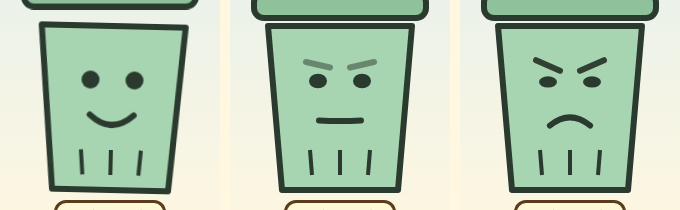
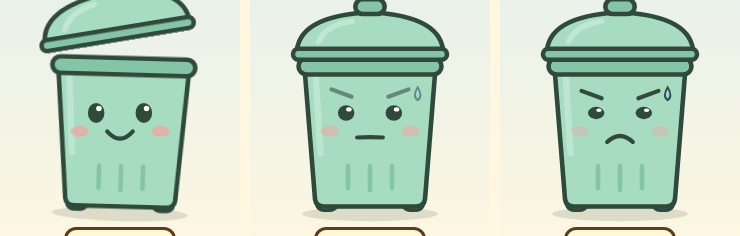
接入新垃圾桶美术（assets/can/）：内联 SVG 按状态切换，修复喷纸变换原点，表情 JS 插值过渡；更新测试与截图

diff --git a/index.html b/index.html
@@ -18,26 +18,34 @@
 <button id="btn-add" title="新建对话框（快捷键 N 或 Ctrl+Alt+N）">+</button>
 <div id="trash-wrap">
   <div id="trash" title="把对话框拖进来；双击或狂点有惊喜">
-    <svg viewBox="0 0 200 230" width="100%" height="100%" aria-hidden="true" overflow="visible">
-      <g id="trash-peek"></g>
-      <g id="trash-lid">
-        <rect x="70" y="8" width="60" height="16" rx="6" fill="#6b8f71" stroke="#2b3a2e" stroke-width="5"/>
-        <rect x="14" y="22" width="172" height="26" rx="10" fill="#8fc19a" stroke="#2b3a2e" stroke-width="6"/>
-      </g>
-      <g id="trash-body">
-        <path d="M28 56 H172 L158 220 H42 Z" fill="#a8d5b1" stroke="#2b3a2e" stroke-width="6" stroke-linejoin="round"/>
-        <g id="trash-face">
-          <ellipse id="eye-l" cx="78" cy="110" rx="9" ry="9" fill="#2b3a2e"/><ellipse id="eye-r" cx="122" cy="110" rx="9" ry="9" fill="#2b3a2e"/>
-          <path id="brow-l" d="M66 94 L90 94" stroke="#2b3a2e" stroke-width="6" stroke-linecap="round" opacity="0"/>
-          <path id="brow-r" d="M134 94 L110 94" stroke="#2b3a2e" stroke-width="6" stroke-linecap="round" opacity="0"/>
-          <path id="trash-mouth" d="M78 145 Q100 165 122 145" fill="none" stroke="#2b3a2e" stroke-width="6" stroke-linecap="round"/>
-        </g>
-        <line x1="70" y1="180" x2="72" y2="205" stroke="#2b3a2e" stroke-width="4"/>
-        <line x1="100" y1="180" x2="100" y2="205" stroke="#2b3a2e" stroke-width="4"/>
-        <line x1="130" y1="180" x2="128" y2="205" stroke="#2b3a2e" stroke-width="4"/>
-      </g>
-      <g id="trash-burst"></g>
-    </svg>
+    <svg viewBox="0 0 240 280" width="100%" height="100%" aria-hidden="true" overflow="visible">
+<!-- 美术：assets/can/。四个状态合成一个内联 SVG，由 #trash[data-state] 切换 -->
+<g class="can"><g id="body"><ellipse cx="120" cy="266" rx="74" ry="8" fill="#2f4a3c" opacity=".15"/>
+ <rect x="62" y="248" width="22" height="14" rx="7" fill="#86c4a6" stroke="#2f4a3c" stroke-width="4"/><rect x="156" y="248" width="22" height="14" rx="7" fill="#86c4a6" stroke="#2f4a3c" stroke-width="4"/>
+ <path d="M48 100 H192 L180 250 Q179 258 170 258 H70 Q61 258 60 250 Z" fill="#a8dcc0" stroke="#2f4a3c" stroke-width="5" stroke-linejoin="round"/>
+ <path d="M60 104 L66 200" stroke="#bfe8d2" stroke-width="7" stroke-linecap="round" opacity=".9"/>
+ <rect x="42" y="96" width="156" height="18" rx="9" fill="#86c4a6" stroke="#2f4a3c" stroke-width="5"/>
+ <path d="M96 214 v24 M120 214 v26 M144 214 v24" stroke="#86c4a6" stroke-width="5" stroke-linecap="round"/></g>
+<g id="peek"><g class="paper " style="--i:0" transform="translate(150 86)"><path d="M-12 -3.5999999999999996 L-6.0 -12 L3.5999999999999996 -10.2 L12 -2.4000000000000004 L8.399999999999999 9.600000000000001 L-4.800000000000001 12 Z" fill="#f5efdc" stroke="#8a7a5c" stroke-width="2.5" stroke-linejoin="round"/><path d="M-6.0 -2.4000000000000004 L0 1.2000000000000002 L6.0 -4.800000000000001 M0 1.2000000000000002 L-1.2000000000000002 7.199999999999999" stroke="#b5a481" stroke-width="1.8" fill="none" stroke-linecap="round"/></g><g class="paper " style="--i:0" transform="translate(172 80)"><path d="M-11 -3.3 L-5.5 -11 L3.3 -9.35 L11 -2.2 L7.699999999999999 8.8 L-4.4 11 Z" fill="#f5efdc" stroke="#8a7a5c" stroke-width="2.5" stroke-linejoin="round"/><path d="M-5.5 -2.2 L0 1.1 L5.5 -4.4 M0 1.1 L-1.1 6.6" stroke="#b5a481" stroke-width="1.8" fill="none" stroke-linecap="round"/></g><g class="paper " style="--i:0" transform="translate(186 92)"><path d="M-9 -2.6999999999999997 L-4.5 -9 L2.6999999999999997 -7.6499999999999995 L9 -1.8 L6.3 7.2 L-3.6 9 Z" fill="#f5efdc" stroke="#8a7a5c" stroke-width="2.5" stroke-linejoin="round"/><path d="M-4.5 -1.8 L0 0.9 L4.5 -3.6 M0 0.9 L-0.9 5.3999999999999995" stroke="#b5a481" stroke-width="1.8" fill="none" stroke-linecap="round"/></g><g class="paper " style="--i:0" transform="translate(130 92)"><path d="M-9 -2.6999999999999997 L-4.5 -9 L2.6999999999999997 -7.6499999999999995 L9 -1.8 L6.3 7.2 L-3.6 9 Z" fill="#f5efdc" stroke="#8a7a5c" stroke-width="2.5" stroke-linejoin="round"/><path d="M-4.5 -1.8 L0 0.9 L4.5 -3.6 M0 0.9 L-0.9 5.3999999999999995" stroke="#b5a481" stroke-width="1.8" fill="none" stroke-linecap="round"/></g><g class="paper " style="--i:0" transform="translate(196 104)"><path d="M-8 -2.4 L-4.0 -8 L2.4 -6.8 L8 -1.6 L5.6 6.4 L-3.2 8 Z" fill="#f5efdc" stroke="#8a7a5c" stroke-width="2.5" stroke-linejoin="round"/><path d="M-4.0 -1.6 L0 0.8 L4.0 -3.2 M0 0.8 L-0.8 4.8" stroke="#b5a481" stroke-width="1.8" fill="none" stroke-linecap="round"/></g></g>
+<g id="overflow"><g class="paper " style="--i:0" transform="translate(80 90)"><path d="M-13 -3.9 L-6.5 -13 L3.9 -11.049999999999999 L13 -2.6 L9.1 10.4 L-5.2 13 Z" fill="#f5efdc" stroke="#8a7a5c" stroke-width="2.5" stroke-linejoin="round"/><path d="M-6.5 -2.6 L0 1.3 L6.5 -5.2 M0 1.3 L-1.3 7.8" stroke="#b5a481" stroke-width="1.8" fill="none" stroke-linecap="round"/></g><g class="paper " style="--i:0" transform="translate(110 82)"><path d="M-14 -4.2 L-7.0 -14 L4.2 -11.9 L14 -2.8000000000000003 L9.799999999999999 11.200000000000001 L-5.6000000000000005 14 Z" fill="#f5efdc" stroke="#8a7a5c" stroke-width="2.5" stroke-linejoin="round"/><path d="M-7.0 -2.8000000000000003 L0 1.4000000000000001 L7.0 -5.6000000000000005 M0 1.4000000000000001 L-1.4000000000000001 8.4" stroke="#b5a481" stroke-width="1.8" fill="none" stroke-linecap="round"/></g><g class="paper " style="--i:0" transform="translate(140 80)"><path d="M-13 -3.9 L-6.5 -13 L3.9 -11.049999999999999 L13 -2.6 L9.1 10.4 L-5.2 13 Z" fill="#f5efdc" stroke="#8a7a5c" stroke-width="2.5" stroke-linejoin="round"/><path d="M-6.5 -2.6 L0 1.3 L6.5 -5.2 M0 1.3 L-1.3 7.8" stroke="#b5a481" stroke-width="1.8" fill="none" stroke-linecap="round"/></g><g class="paper " style="--i:0" transform="translate(168 86)"><path d="M-12 -3.5999999999999996 L-6.0 -12 L3.5999999999999996 -10.2 L12 -2.4000000000000004 L8.399999999999999 9.600000000000001 L-4.800000000000001 12 Z" fill="#f5efdc" stroke="#8a7a5c" stroke-width="2.5" stroke-linejoin="round"/><path d="M-6.0 -2.4000000000000004 L0 1.2000000000000002 L6.0 -4.800000000000001 M0 1.2000000000000002 L-1.2000000000000002 7.199999999999999" stroke="#b5a481" stroke-width="1.8" fill="none" stroke-linecap="round"/></g><g class="paper " style="--i:0" transform="translate(60 98)"><path d="M-9 -2.6999999999999997 L-4.5 -9 L2.6999999999999997 -7.6499999999999995 L9 -1.8 L6.3 7.2 L-3.6 9 Z" fill="#f5efdc" stroke="#8a7a5c" stroke-width="2.5" stroke-linejoin="round"/><path d="M-4.5 -1.8 L0 0.9 L4.5 -3.6 M0 0.9 L-0.9 5.3999999999999995" stroke="#b5a481" stroke-width="1.8" fill="none" stroke-linecap="round"/></g><g class="paper " style="--i:0" transform="translate(186 98)"><path d="M-10 -3.0 L-5.0 -10 L3.0 -8.5 L10 -2.0 L7.0 8.0 L-4.0 10 Z" fill="#f5efdc" stroke="#8a7a5c" stroke-width="2.5" stroke-linejoin="round"/><path d="M-5.0 -2.0 L0 1.0 L5.0 -4.0 M0 1.0 L-1.0 6.0" stroke="#b5a481" stroke-width="1.8" fill="none" stroke-linecap="round"/></g><g class="paper " style="--i:0" transform="translate(124 70)"><path d="M-10 -3.0 L-5.0 -10 L3.0 -8.5 L10 -2.0 L7.0 8.0 L-4.0 10 Z" fill="#f5efdc" stroke="#8a7a5c" stroke-width="2.5" stroke-linejoin="round"/><path d="M-5.0 -2.0 L0 1.0 L5.0 -4.0 M0 1.0 L-1.0 6.0" stroke="#b5a481" stroke-width="1.8" fill="none" stroke-linecap="round"/></g></g>
+<g class="spray"><g class="paper " style="--i:0;--dx:-99px;--dy:-48px;--r:42deg" transform="translate(113 92)"><path d="M-12 -3.5999999999999996 L-6.0 -12 L3.5999999999999996 -10.2 L12 -2.4000000000000004 L8.399999999999999 9.600000000000001 L-4.800000000000001 12 Z" fill="#f5efdc" stroke="#8a7a5c" stroke-width="2.5" stroke-linejoin="round"/><path d="M-6.0 -2.4000000000000004 L0 1.2000000000000002 L6.0 -4.800000000000001 M0 1.2000000000000002 L-1.2000000000000002 7.199999999999999" stroke="#b5a481" stroke-width="1.8" fill="none" stroke-linecap="round"/></g><g class="paper " style="--i:1;--dx:-31px;--dy:-70px;--r:-81deg" transform="translate(106 92)"><path d="M-12 -3.5999999999999996 L-6.0 -12 L3.5999999999999996 -10.2 L12 -2.4000000000000004 L8.399999999999999 9.600000000000001 L-4.800000000000001 12 Z" fill="#f5efdc" stroke="#8a7a5c" stroke-width="2.5" stroke-linejoin="round"/><path d="M-6.0 -2.4000000000000004 L0 1.2000000000000002 L6.0 -4.800000000000001 M0 1.2000000000000002 L-1.2000000000000002 7.199999999999999" stroke="#b5a481" stroke-width="1.8" fill="none" stroke-linecap="round"/></g><g class="paper " style="--i:2;--dx:-90px;--dy:-74px;--r:43deg" transform="translate(143 92)"><path d="M-12 -3.5999999999999996 L-6.0 -12 L3.5999999999999996 -10.2 L12 -2.4000000000000004 L8.399999999999999 9.600000000000001 L-4.800000000000001 12 Z" fill="#f5efdc" stroke="#8a7a5c" stroke-width="2.5" stroke-linejoin="round"/><path d="M-6.0 -2.4000000000000004 L0 1.2000000000000002 L6.0 -4.800000000000001 M0 1.2000000000000002 L-1.2000000000000002 7.199999999999999" stroke="#b5a481" stroke-width="1.8" fill="none" stroke-linecap="round"/></g><g class="paper " style="--i:3;--dx:49px;--dy:-54px;--r:67deg" transform="translate(130 92)"><path d="M-9 -2.6999999999999997 L-4.5 -9 L2.6999999999999997 -7.6499999999999995 L9 -1.8 L6.3 7.2 L-3.6 9 Z" fill="#f5efdc" stroke="#8a7a5c" stroke-width="2.5" stroke-linejoin="round"/><path d="M-4.5 -1.8 L0 0.9 L4.5 -3.6 M0 0.9 L-0.9 5.3999999999999995" stroke="#b5a481" stroke-width="1.8" fill="none" stroke-linecap="round"/></g><g class="paper " style="--i:4;--dx:31px;--dy:-44px;--r:-179deg" transform="translate(100 92)"><path d="M-12 -3.5999999999999996 L-6.0 -12 L3.5999999999999996 -10.2 L12 -2.4000000000000004 L8.399999999999999 9.600000000000001 L-4.800000000000001 12 Z" fill="#f5efdc" stroke="#8a7a5c" stroke-width="2.5" stroke-linejoin="round"/><path d="M-6.0 -2.4000000000000004 L0 1.2000000000000002 L6.0 -4.800000000000001 M0 1.2000000000000002 L-1.2000000000000002 7.199999999999999" stroke="#b5a481" stroke-width="1.8" fill="none" stroke-linecap="round"/></g><g class="paper " style="--i:5;--dx:33px;--dy:-57px;--r:168deg" transform="translate(120 92)"><path d="M-12 -3.5999999999999996 L-6.0 -12 L3.5999999999999996 -10.2 L12 -2.4000000000000004 L8.399999999999999 9.600000000000001 L-4.800000000000001 12 Z" fill="#f5efdc" stroke="#8a7a5c" stroke-width="2.5" stroke-linejoin="round"/><path d="M-6.0 -2.4000000000000004 L0 1.2000000000000002 L6.0 -4.800000000000001 M0 1.2000000000000002 L-1.2000000000000002 7.199999999999999" stroke="#b5a481" stroke-width="1.8" fill="none" stroke-linecap="round"/></g><g class="paper " style="--i:6;--dx:84px;--dy:-65px;--r:27deg" transform="translate(136 92)"><path d="M-12 -3.5999999999999996 L-6.0 -12 L3.5999999999999996 -10.2 L12 -2.4000000000000004 L8.399999999999999 9.600000000000001 L-4.800000000000001 12 Z" fill="#f5efdc" stroke="#8a7a5c" stroke-width="2.5" stroke-linejoin="round"/><path d="M-6.0 -2.4000000000000004 L0 1.2000000000000002 L6.0 -4.800000000000001 M0 1.2000000000000002 L-1.2000000000000002 7.199999999999999" stroke="#b5a481" stroke-width="1.8" fill="none" stroke-linecap="round"/></g><g class="paper " style="--i:7;--dx:-76px;--dy:-46px;--r:53deg" transform="translate(92 92)"><path d="M-9 -2.6999999999999997 L-4.5 -9 L2.6999999999999997 -7.6499999999999995 L9 -1.8 L6.3 7.2 L-3.6 9 Z" fill="#f5efdc" stroke="#8a7a5c" stroke-width="2.5" stroke-linejoin="round"/><path d="M-4.5 -1.8 L0 0.9 L4.5 -3.6 M0 0.9 L-0.9 5.3999999999999995" stroke="#b5a481" stroke-width="1.8" fill="none" stroke-linecap="round"/></g></g>
+<g class="lid-fight"><g id="lid" class="lid"><path d="M40 92 Q40 50 120 46 Q200 50 200 92 Z" fill="#a8dcc0" stroke="#2f4a3c" stroke-width="5" stroke-linejoin="round"/>
+ <path d="M64 78 Q72 60 100 56" stroke="#bfe8d2" stroke-width="6" fill="none" stroke-linecap="round"/>
+ <rect x="104" y="32" width="32" height="16" rx="8" fill="#86c4a6" stroke="#2f4a3c" stroke-width="5"/>
+ <rect x="36" y="86" width="168" height="12" rx="6" fill="#86c4a6" stroke="#2f4a3c" stroke-width="5"/></g></g>
+<g id="face" class="face">
+ <g id="brows" style="opacity:0">
+  <path id="brow-l" d="M78 132 L100 140" stroke="#2f4a3c" stroke-width="4.5" stroke-linecap="round"/>
+  <path id="brow-r" d="M162 132 L140 140" stroke="#2f4a3c" stroke-width="4.5" stroke-linecap="round"/></g>
+ <g id="eye-l" class="eye" style="transform-origin:94px 156px"><g><ellipse cx="94" cy="156" rx="9" ry="11" fill="#2f4a3c"/><circle cx="97" cy="151" r="3" fill="#fff"/></g></g>
+ <g id="eye-r" class="eye" style="transform-origin:146px 156px"><g><ellipse cx="146" cy="156" rx="9" ry="11" fill="#2f4a3c"/><circle cx="149" cy="151" r="3" fill="#fff"/></g></g>
+ <ellipse id="cheek-l" cx="76" cy="176" rx="10" ry="6" fill="#f4a3a3" opacity="0.7"/>
+ <ellipse id="cheek-r" cx="164" cy="176" rx="10" ry="6" fill="#f4a3a3" opacity="0.7"/>
+ <path id="mouth-smile" d="M106 176 Q120 192 134 176" stroke="#2f4a3c" stroke-width="4.5" fill="none" stroke-linecap="round" style="opacity:1"/>
+ <path id="mouth-frown" d="M106 188 Q120 174 134 188" stroke="#2f4a3c" stroke-width="4.5" fill="none" stroke-linecap="round" style="opacity:0"/>
+ <path id="sweat" d="M172 128 q6 10 0 14 q-6 -4 0 -14Z" fill="#9fd3f0" stroke="#2f4a3c" stroke-width="2" style="opacity:0"/>
+</g></g>
+</svg>
   </div>
   <div id="counter">已吃掉 <b id="count">0</b> 条</div>
 </div>

diff --git a/css/style.css b/css/style.css
@@ -18,14 +18,7 @@ button:active{transform:translateY(2px);box-shadow:0 1px 0 #5a3e1b}
 .bubble textarea{width:100%;min-height:60px;border:none;outline:none;resize:none;font:inherit;background:transparent}
 @keyframes bob{0%,100%{translate:0 0}50%{translate:0 -6px}}
 #trash-wrap{position:fixed;bottom:0;left:50%;transform:translateX(-50%);display:flex;flex-direction:column;align-items:center;z-index:10}
-#trash{width:min(200px,28vw);height:min(230px,32vw);cursor:pointer;user-select:none}
-#trash.hover #trash-lid{transform:translateY(-14px) rotate(-8deg)}
-#trash-lid{transition:transform .2s;transform-origin:30px 30px}
-#trash.chew #trash-lid{animation:chew .18s ease-in-out 5}
-#trash.chew #trash-body{animation:wobble .9s}
-@keyframes chew{50%{transform:translateY(-16px)}}
-@keyframes wobble{25%{transform:rotate(-3deg)}75%{transform:rotate(3deg)}}
-#trash-body{transform-origin:100px 220px}
+#trash{width:min(220px,30vw);aspect-ratio:240/280;cursor:pointer;user-select:none}
 #counter{background:#fff8d6;border:3px solid #5a3e1b;border-radius:12px;padding:2px 12px;margin-bottom:8px;font-weight:bold;color:#5a3e1b}
 .scrap{position:fixed;width:180px;background:#fffdf3;border:2px solid #b49a6a;border-radius:4px;padding:6px 8px;font-size:13px;z-index:40;box-shadow:2px 3px 6px rgba(0,0,0,.2);transition:transform 1s cubic-bezier(.2,.8,.3,1),opacity .6s;pointer-events:auto}
 .scrap time{display:block;color:#c0392b;font-weight:bold;font-size:12px}
@@ -54,12 +47,7 @@ pre.result{white-space:pre-wrap;background:#fff;border:2px solid #ddd;padding:8p
 #tag-filter{font:inherit;padding:4px;border:2px solid #5a3e1b;border-radius:8px}
 
 #trash-wrap{position:fixed}
-#trash.burp #trash-body{animation:burp 1.1s ease-out}
-#trash.burp #trash-lid{animation:lidpop 1.1s ease-out}
-@keyframes burp{15%{transform:scale(1.08,.92)}35%{transform:scale(.94,1.08)}55%{transform:scale(1.03,.97)}}
-@keyframes lidpop{20%{transform:translateY(-28px) rotate(-12deg)}50%{transform:translateY(-4px)}}
 .burp-bubble{position:absolute;top:-10px;left:62%;background:#fff;border:3px solid #3b2a14;border-radius:50%;padding:6px 12px;font-weight:bold;animation:burpup 1.6s ease-out forwards}
-@keyframes burpup{from{transform:translateY(20px) scale(.3);opacity:0}30%{opacity:1;transform:translateY(0) scale(1.1)}to{transform:translateY(-60px) scale(1);opacity:0}}
 
 #review{position:fixed;inset:0;background:rgba(0,0,0,.45);z-index:70;display:flex;align-items:center;justify-content:center}
 .review-box{display:flex;flex-direction:column;align-items:center;gap:8px}
@@ -70,18 +58,42 @@ pre.result{white-space:pre-wrap;background:#fff;border:2px solid #ddd;padding:8p
 .note-item .acts button{font-size:12px;padding:2px 6px}
 #panel{top:100px;height:calc(100% - 100px);border-top:4px solid #5a3e1b;border-top-left-radius:16px}
 
-/* ---- 垃圾桶状态（fill.js） ---- */
-#trash svg{overflow:visible}
-#trash-lid{transform-box:view-box;transform-origin:18px 36px}
-#trash[data-state=ajar] #trash-lid{transform:translateY(-6px) rotate(-9deg)}
-#trash[data-state=ajar]:not(.chew):not(.burp) #trash-lid{animation:ajar 2.4s ease-in-out infinite}
-@keyframes ajar{0%,100%{transform:translateY(-6px) rotate(-9deg)}50%{transform:translateY(-8px) rotate(-11deg)}}
-#trash .peek>g{transform-box:fill-box;transform-origin:center;animation:peek 1.6s ease-in-out infinite}
-@keyframes peek{0%,100%{transform:translate(0,0) scale(1)}50%{transform:translate(2px,-3px) scale(1.08,.92)}}
-#trash[data-state=struggle]:not(.chew):not(.burp) #trash-lid{animation:struggle 1.2s ease-in-out infinite}
-@keyframes struggle{0%{transform:translateY(-4px) rotate(-4deg)}20%{transform:translateY(0) rotate(-1deg)}28%{transform:translateY(-2px) rotate(-2deg)}
- 45%{transform:translateY(-26px) rotate(-20deg)}52%{transform:translateY(-22px) rotate(-17deg)}58%{transform:translateY(-25px) rotate(-21deg)}100%{transform:translateY(-4px) rotate(-4deg)}}
-#trash[data-state=struggle] #trash-body{animation:shake .3s linear infinite}
-@keyframes shake{25%{transform:translateX(-2px) rotate(-1deg)}75%{transform:translateX(2px) rotate(1deg)}}
-#trash .fly>g{transform-box:fill-box;transform-origin:center;animation:fly 1.4s ease-out infinite}
-@keyframes fly{0%{transform:translate(0,0) scale(.5);opacity:0}12%{opacity:1}85%{opacity:1}100%{transform:translate(var(--dx),var(--dy)) rotate(200deg) scale(1);opacity:0}}
+
+/* ---- 垃圾桶（美术见 assets/can/，状态由 fill.js 设置 data-state，表情由 face.js 插值） ---- */
+#trash svg{overflow:visible;display:block}
+#trash #lid,#trash .lid-fight{transform-box:view-box;transform-origin:40px 92px}
+#trash .can{transform-box:view-box;transform-origin:120px 260px}
+#trash #body{transform-box:view-box;transform-origin:120px 258px}
+#trash #lid{transition:transform .25s}
+#trash.hover #lid{transform:rotate(-14deg) translateY(-6px)}
+#trash.chew #lid{animation:chew .18s ease-in-out 5}
+#trash.chew #body{animation:wobble .9s}
+@keyframes chew{50%{transform:rotate(-10deg) translateY(-10px)}}
+@keyframes wobble{25%{transform:rotate(-3deg)}75%{transform:rotate(3deg)}}
+#trash.burp #body{animation:burp 1.1s ease-out}
+#trash.burp #lid{animation:lidpop 1.1s ease-out}
+@keyframes burp{15%{transform:scale(1.08,.92)}35%{transform:scale(.94,1.08)}55%{transform:scale(1.03,.97)}}
+@keyframes lidpop{20%{transform:rotate(-30deg) translateY(-14px)}50%{transform:rotate(-6deg)}}
+/* 纸团：默认全部隐藏，按状态显示 */
+#trash #peek,#trash #overflow,#trash .spray{display:none}
+#trash .paper{transform-box:fill-box;transform-origin:center}
+/* 20：盖子合不上（同 can-3：rotate(-16) translate(0,-4)），纸团从盖沿挤出、轻轻扭动 */
+#trash[data-state=ajar] #peek{display:inline}
+#trash[data-state=ajar] #lid{transform:rotate(-16deg) translateY(-4px)}
+#trash[data-state=ajar]:not(.chew):not(.burp):not(.hover) #lid{animation:ajar 2.4s ease-in-out infinite}
+@keyframes ajar{0%,100%{transform:rotate(-16deg) translateY(-4px)}50%{transform:rotate(-19deg) translateY(-6px)}}
+#trash[data-state=ajar] #peek .paper{animation:peek 1.6s ease-in-out infinite}
+#trash[data-state=ajar] #peek .paper:nth-child(2n){animation-delay:-.6s}
+#trash[data-state=ajar] #peek .paper:nth-child(3n){animation-delay:-1.1s}
+@keyframes peek{0%,100%{scale:1;rotate:0deg}50%{scale:1.08 .94;rotate:6deg}}
+/* 100：同 can-4，纸团狂喷 + 盖子拉锯 + 整桶抖 */
+#trash[data-state=struggle] #overflow,#trash[data-state=struggle] .spray{display:inline}
+#trash[data-state=struggle] #lid{transform:rotate(-10deg) translateY(-6px)}
+#trash[data-state=struggle] .can{animation:shake .18s linear infinite}
+@keyframes shake{0%,100%{transform:translate(0,0) rotate(0)}25%{transform:translate(-3px,1px) rotate(-2deg)}75%{transform:translate(3px,-1px) rotate(2deg)}}
+#trash[data-state=struggle] .lid-fight{animation:lidfight .9s ease-in-out infinite}
+@keyframes lidfight{0%{transform:rotate(-24deg) translateY(-8px)}40%{transform:rotate(-3deg) translateY(0)}55%{transform:rotate(-1deg) translateY(1px)}70%{transform:rotate(-30deg) translateY(-12px)}100%{transform:rotate(-24deg) translateY(-8px)}}
+#trash[data-state=struggle] .spray .paper{animation:spray 1.2s cubic-bezier(.2,.7,.4,1) infinite;animation-delay:calc(var(--i) * -0.15s);opacity:0}
+@keyframes spray{0%{translate:0 0;opacity:0;scale:.6}10%{opacity:1}100%{translate:var(--dx) var(--dy);opacity:0;scale:1.1;rotate:var(--r)}}
+#trash[data-state=struggle] #overflow .paper{animation:peek 1s ease-in-out infinite}
+@media (prefers-reduced-motion:reduce){#trash .can,#trash .lid-fight,#trash .paper,#trash #lid{animation:none!important}#trash .spray .paper{opacity:1}}

diff --git a/js/face.js b/js/face.js
@@ -1,33 +1,31 @@
-// 垃圾桶表情：在笑脸(0)和不开心(1)之间平滑过渡（JS 插值 SVG 路径）
-const SMILE = [78, 145, 100, 165, 122, 145], FROWN = [80, 156, 100 , 138, 120, 156];
-const DURATION = 1000;              // 过渡时长（毫秒）
-export const CHEW_MS = 950;         // 等咀嚼动画结束再变脸
+// 垃圾桶表情：笑脸(0) ⇄ 苦脸(1) 平滑过渡。用 JS 插值直接写内联样式，
+// 所以不依赖 !important 去覆盖美术文件里的内联 opacity，两个方向都一样顺。
+const DURATION = 1000;      // 过渡时长（毫秒）
+export const CHEW_MS = 950; // 等咀嚼动画结束再变脸
+const SMILE = [106, 176, 120, 192, 134, 176], FROWN = [106, 188, 120, 174, 134, 188];
 let cur = 0, target = 0, raf, timer;
 const ease = t => t < .5 ? 2 * t * t : 1 - (-2 * t + 2) ** 2 / 2;
 const lerp = (a, b, t) => a + (b - a) * t;
+const $ = id => document.getElementById(id);
 function paint(t) {
   const m = SMILE.map((v, i) => lerp(v, FROWN[i], t).toFixed(1));
-  const $ = id => document.getElementById(id);
-  $('trash-mouth').setAttribute('d', `M${m[0]} ${m[1]} Q${m[2]} ${m[3]} ${m[4]} ${m[5]}`);
-  // 眉毛：淡入并从水平转成倒八字
-  $('brow-l').setAttribute('d', `M66 ${lerp(94, 90, t)} L90 ${lerp(94, 101, t)}`);
-  $('brow-r').setAttribute('d', `M134 ${lerp(94, 90, t)} L110 ${lerp(94, 101, t)}`);
-  $('brow-l').setAttribute('opacity', t); $('brow-r').setAttribute('opacity', t);
-  // 眼睛眯起来
-  for (const e of ['eye-l', 'eye-r']) { $(e).setAttribute('ry', lerp(9, 5.5, t).toFixed(2)); $(e).setAttribute('cy', lerp(110, 112, t).toFixed(1)); }
-  const tr = document.getElementById('trash'); tr.dataset.mood = t.toFixed(3);
+  $('mouth-smile').setAttribute('d', `M${m[0]} ${m[1]} Q${m[2]} ${m[3]} ${m[4]} ${m[5]}`); // 嘴角慢慢往下弯
+  $('mouth-frown').style.opacity = 0;  // 用变形的嘴代替淡入淡出
+  $('brows').style.opacity = t;
+  $('brows').style.transform = `translateY(${lerp(-4, 0, t)}px)`;
+  $('sweat').style.opacity = t;
+  for (const c of ['cheek-l', 'cheek-r']) $(c).style.opacity = lerp(.7, .35, t);
+  for (const e of ['eye-l', 'eye-r']) $(e).style.transform = `scaleY(${lerp(1, .6, t)})`; // 眯眼
+  $('trash').dataset.mood = t.toFixed(3);
+  $('trash').classList.toggle('is-sad', t > .5);
 }
 function animateTo(to) {
   cancelAnimationFrame(raf);
   const from = cur, t0 = performance.now(), dur = DURATION * Math.abs(to - from);
   if (!dur) return paint(cur);
-  const step = now => {
-    const k = Math.min(1, (now - t0) / dur); cur = lerp(from, to, ease(k)); paint(cur);
-    if (k < 1) raf = requestAnimationFrame(step);
-  };
+  const step = now => { const k = Math.min(1, (now - t0) / dur); cur = lerp(from, to, ease(k)); paint(cur); if (k < 1) raf = requestAnimationFrame(step); };
   raf = requestAnimationFrame(step);
 }
-// unhappy=true 变不开心；delay 用于等咀嚼结束
 export function setMood(unhappy, { delay = 0, instant = false } = {}) {
   target = unhappy ? 1 : 0; clearTimeout(timer);
   if (instant) { cancelAnimationFrame(raf); cur = target; paint(cur); return; }

diff --git a/js/fill.js b/js/fill.js
@@ -1,29 +1,15 @@
-// 越吃越满：按「未经 AI 整理」的想法条数改变垃圾桶状态（不再在桶里画纸堆，脸永远露在外面）
-//   0 条：笑脸        ≥1：不开心的脸
-//   ≥20：盖子合不上、微微翘起，纸团从盖子边挤出来；刚满 20（及之后每 5 条）打嗝提醒
-//   ≥100：纸团不停从桶口喷出，盖子拼命往下压、又被顶起来（拉锯抖动）
-import { paperBall } from './paper.js';
+// 越吃越满：按「未经 AI 整理」的想法条数切换垃圾桶状态（美术见 assets/can/）
+//   0：笑脸   ≥1：苦脸   ≥20：盖子合不上、纸团从盖沿挤出 + 打嗝   ≥100：纸团狂喷、盖子拉锯
+// 纸团只出现在盖子/桶口附近（y < 110），脸在 y 128 以下，不会被挡住。
 import { setMood, CHEW_MS } from './face.js';
 export const FULL_AT = 20;
 export const BURST_AT = 100;
 export const stateFor = n => n >= BURST_AT ? 'struggle' : n >= FULL_AT ? 'ajar' : n > 0 ? 'unhappy' : 'happy';
-// 盖子边缘挤出的纸团 [x, y, r]（在盖子下、桶口上，不碰到脸）
-const PEEK = [[146, 44, 20], [176, 34, 17], [118, 50, 14]];
-const ball = (x, y, r, cls = '', style = '', seed = 1) => `<g class="${cls}" transform="translate(${x} ${y})"><g style="${style}">${paperBall(r, seed)}</g></g>`;
-let lastState;
+let first = true;
 export function renderPile(unsorted, { afterChew = false } = {}) {
   const t = document.getElementById('trash'), st = stateFor(unsorted);
-  setMood(st !== 'happy', { delay: afterChew ? CHEW_MS : 0, instant: lastState === undefined });
+  setMood(st !== 'happy', { delay: afterChew ? CHEW_MS : 0, instant: first }); first = false;
   t.dataset.state = st; t.dataset.unsorted = unsorted;
-  if (st === lastState) return st;
-  lastState = st;
-  const peek = document.getElementById('trash-peek'), burst = document.getElementById('trash-burst');
-  peek.innerHTML = st === 'ajar' || st === 'struggle' ? PEEK.map(([x, y, r], i) => ball(x, y, r, 'peek', `animation-delay:${-i * 0.37}s`, i + 3)).join('') : '';
-  // 喷出的纸团：每个有自己的方向、距离和节奏，循环播放
-  burst.innerHTML = st === 'struggle' ? Array.from({ length: 12 }, (_, i) => {
-    const dx = (i % 2 ? 1 : -1) * (30 + (i * 37) % 90), dy = -(70 + (i * 53) % 80);
-    return ball(100 + (i % 5 - 2) * 18, 44, 16 + (i % 3) * 5, 'fly', `--dx:${dx}px;--dy:${dy}px;animation-duration:${1.3 + (i % 4) * 0.25}s;animation-delay:${-i * 0.27}s`, i + 11);
-  }).join('') : '';
   return st;
 }
 export function shouldBurp(unsorted) { return unsorted >= FULL_AT && (unsorted - FULL_AT) % 5 === 0; }

diff --git a/tests/smoke_test.py b/tests/smoke_test.py
@@ -11,8 +11,8 @@ with sync_playwright() as p:
     pg.on('pageerror', lambda e: errors.append(str(e)))
     pg.goto('http://127.0.0.1:8765/index.html'); pg.wait_for_selector('.bubble')
     def face_ok():  # 脸（眼睛+嘴）不能被任何纸团盖住
-        r = pg.evaluate("""() => { const f = document.querySelector('#trash-face').getBoundingClientRect();
-          const hit = [...document.querySelectorAll('#trash-peek .paper, #trash-burst .paper')].filter(c => { const b = c.getBoundingClientRect();
+        r = pg.evaluate("""() => { const f = document.querySelector('#face').getBoundingClientRect();
+          const hit = [...document.querySelectorAll('#peek .paper, #overflow .paper, .spray .paper')].filter(c => { const b = c.getBoundingClientRect();
             return b.right > f.left && b.left < f.right && b.bottom > f.top && b.top < f.bottom; }); return hit.length; }""")
         assert r == 0, f'{r} 个纸团盖住了脸'
     def trash_shot(name):
@@ -57,8 +57,9 @@ with sync_playwright() as p:
     pg.wait_for_timeout(1000)
     assert pg.text_content('#count') == '2', pg.text_content('#count')
     assert pg.get_attribute('#trash', 'data-state') == 'unhappy'
-    assert float(pg.get_attribute('#trash', 'data-mood')) == 1 and 'Q100.0 138.0' in pg.get_attribute('#trash-mouth', 'd')
-    assert pg.get_attribute('#brow-l', 'opacity') == '1' and float(pg.get_attribute('#eye-l', 'ry')) < 6
+    assert float(pg.get_attribute('#trash', 'data-mood')) == 1 and 'Q120.0 174.0' in pg.get_attribute('#mouth-smile', 'd')
+    assert pg.evaluate("getComputedStyle(document.querySelector('#brows')).opacity") == '1' and pg.evaluate("getComputedStyle(document.querySelector('#sweat')).opacity") == '1'
+    assert abs(pg.evaluate("new DOMMatrix(getComputedStyle(document.querySelector('#eye-l')).transform).d") - 0.6) < 0.01
     face_ok(); pg.wait_for_timeout(1100); trash_shot('can-unhappy.png'); print('吃完变不开心 OK')
     n = pg.evaluate("""() => new Promise(r => { const q = indexedDB.open('thought-trash-bin'); q.onsuccess = () => {
         const g = q.result.transaction('notes').objectStore('notes').getAll(); g.onsuccess = () => r(g.result); }; })""")
@@ -104,16 +105,23 @@ with sync_playwright() as p:
     assert pg.text_content('#count') == '20' and pg.get_attribute('#trash', 'data-state') == 'ajar'
     assert 'burp' in pg.get_attribute('#trash', 'class') and 'AI整理' in pg.text_content('#toast')
     pg.wait_for_timeout(1300)
-    assert pg.locator('#trash-peek .paper').count() >= 3 and pg.locator('#trash-burst .paper').count() == 0
-    ang = pg.evaluate("() => new DOMMatrix(getComputedStyle(document.querySelector('#trash-lid')).transform).b")
+    assert pg.locator('#peek .paper').count() == 5 and pg.locator('#peek .paper').first.is_visible() and not pg.locator('.spray .paper').first.is_visible()
+    ang = pg.evaluate("() => new DOMMatrix(getComputedStyle(document.querySelector('#lid')).transform).b")
     assert ang < -0.05, ang  # 盖子翘起
     face_ok(); trash_shot('can-20.png')
     print('越吃越满 20：盖子翘起 + 纸团挤出 + 打嗝 OK')
     pg.evaluate("async () => { const s = await import('/js/storage.js'); for (let i = 0; i < 80; i++) await s.saveNote('第 ' + i + ' 条乱想', ''); (await import('/js/fill.js')).renderPile(await s.countUnsorted()); (await import('/js/trashbin.js')).setCount(await s.countNotes()); }")
-    assert pg.get_attribute('#trash', 'data-state') == 'struggle' and pg.locator('#trash-burst .paper').count() >= 8
+    assert pg.get_attribute('#trash', 'data-state') == 'struggle' and pg.locator('.spray .paper').count() == 8 and pg.locator('#overflow .paper').first.is_visible()
     a = []
-    for _ in range(12): a.append(pg.evaluate("() => new DOMMatrix(getComputedStyle(document.querySelector('#trash-lid')).transform).f")); pg.wait_for_timeout(100)
-    assert max(a) - min(a) > 8, a  # 盖子上下拉锯
+    sp, sh = [], []
+    for _ in range(12):
+        a.append(pg.evaluate("() => new DOMMatrix(getComputedStyle(document.querySelector('.lid-fight')).transform).b"))  # 盖子角度
+        sp.append(pg.evaluate("() => { const b = document.querySelector('.spray .paper').getBoundingClientRect(); return [Math.round(b.x), Math.round(b.y), +getComputedStyle(document.querySelector('.spray .paper')).opacity]; }"))
+        sh.append(pg.evaluate("() => new DOMMatrix(getComputedStyle(document.querySelector('.can')).transform).e"))
+        pg.wait_for_timeout(100)
+    assert max(a) - min(a) > 0.3, a  # 盖子拉锯（rotate 约 -1° ~ -30°）
+    assert len({tuple(x[:2]) for x in sp}) > 5 and max(x[2] for x in sp) > 0.5, sp  # 纸团真的在飞
+    assert max(sh) - min(sh) > 2, sh  # 整桶在抖
     face_ok(); pg.wait_for_timeout(400); trash_shot('can-100.png')
     print('100 条：纸团喷出 + 盖子拉锯 OK')
     pg.evaluate("async () => { const s = await import('/js/storage.js'); const ns = await s.listNotes(); await s.markOrganized(ns.filter(n => n.text.startsWith('第 ')).map(n => n.id)); (await import('/js/fill.js')).renderPile(await s.countUnsorted()); }")
@@ -145,7 +153,7 @@ with sync_playwright() as p:
     fp.goto('http://127.0.0.1:8765/index.html'); fp.wait_for_selector('.bubble')
     vals = fp.locator('.bubble textarea').evaluate_all('ts => ts.map(t => [t.value, t.placeholder])')
     assert vals and all(v == '' and ph for v, ph in vals), vals
-    assert fp.get_attribute('#trash', 'data-state') == 'happy' and float(fp.get_attribute('#trash', 'data-mood')) == 0 and 'Q100.0 165.0' in fp.get_attribute('#trash-mouth', 'd')
+    assert fp.get_attribute('#trash', 'data-state') == 'happy' and float(fp.get_attribute('#trash', 'data-mood')) == 0 and 'Q120.0 192.0' in fp.get_attribute('#mouth-smile', 'd')
     fp.evaluate('document.activeElement.blur()'); fp.wait_for_timeout(500)
     fp.screenshot(path=os.path.join(ROOT, 'docs', 'screenshot.png'))
     print('默认状态全为空提示语 OK:', [ph for _, ph in vals])

diff --git a/README.md b/README.md
@@ -49,7 +49,7 @@ js/easter-eggs.js   纸片爆炸彩蛋
 js/tags.js          心情标签
 js/fill.js          越吃越满 / 打嗝
 js/face.js          垃圾桶表情平滑过渡
-js/paper.js         皱巴巴纸团图形
+assets/can/         垃圾桶美术（四个状态的 SVG / PNG）
 js/review.js        本周回顾卡片
 js/shortcuts.js     快捷键
 js/custom-banner.js 自定义横幅
